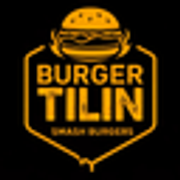
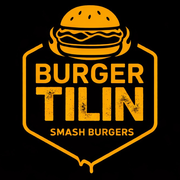
Mejorar la marca y cabecera móvil del admin

Changed region(s): [[0.1111, 0.0278, 0.8889, 0.9722]]

diff --git a/apps/web/components/admin.tsx b/apps/web/components/admin.tsx
@@ -75,7 +75,7 @@ function Login({ done }: { done: (u: any) => void }) {
   return (
     <div className="login-screen">
       <div className="login-art">
-        <Brand />
+        <Brand admin />
         <div>
           <span className="eyebrow">EL EQUIPO DETRÁS DE LA PLANCHA</span>
           <h1>
@@ -334,9 +334,9 @@ export default function Admin() {
   const shown = orders.filter((o) => filter === 'ALL' || o.status === filter);
   return (
     <div className={'admin-shell ' + (mobile ? 'nav-open' : '')}>
-      <aside className="sidebar">
+      <aside className="sidebar" id="admin-sidebar">
         <Link href="/admin">
-          <Brand />
+          <Brand admin />
         </Link>
         <span className="workspace-label">TU LOCAL, EN ORDEN</span>
         <nav>
@@ -395,32 +395,44 @@ export default function Admin() {
       <div className="admin-body">
         <header className="admin-topbar">
           <button
+            type="button"
             className="mobile-menu icon-btn"
-            onClick={() => setMobile(!mobile)}
-            aria-label="Menú"
+            onClick={() => setMobile((open) => !open)}
+            aria-label={mobile ? 'Cerrar menú' : 'Abrir menú'}
+            aria-expanded={mobile}
+            aria-controls="admin-sidebar"
           >
-            <Menu />
+            {mobile ? <X /> : <Menu />}
           </button>
+          <Link href="/admin" className="admin-mobile-brand">
+            <Brand admin />
+          </Link>
           <div className="breadcrumb">
-            MI LOCAL <span>/</span> <b>{navigation.find((n) => n.id === view)?.label}</b>
+            <span className="breadcrumb-home">MI LOCAL</span>
+            <span className="breadcrumb-divider">/</span>
+            <b>{navigation.find((n) => n.id === view)?.label}</b>
           </div>
-          <div className="row">
-            <button type="button" className="icon-btn" title="App y avisos de pedidos" aria-label="App y avisos de pedidos" onClick={() => setAppSettings(true)}>
-              <Bell size={20} />
-            </button>
-            <span className={'connection ' + (connected ? 'online' : 'offline')}>
-              {connected ? <Wifi size={14} /> : <WifiOff size={14} />}
-              {connected ? 'En vivo' : 'Reconectando…'}
-            </span>
-            <span className="top-date">
-              {new Intl.DateTimeFormat('es-AR', {
-                weekday: 'long',
-                day: 'numeric',
-                month: 'long',
-                timeZone: 'America/Argentina/Buenos_Aires',
-              }).format(tick)}
-            </span>
-          </div>
+          <button
+            type="button"
+            className="admin-alerts icon-btn"
+            title="App y avisos de pedidos"
+            aria-label="App y avisos de pedidos"
+            onClick={() => setAppSettings(true)}
+          >
+            <Bell size={20} />
+          </button>
+          <span className={'connection ' + (connected ? 'online' : 'offline')}>
+            {connected ? <Wifi size={14} /> : <WifiOff size={14} />}
+            {connected ? 'En vivo' : 'Reconectando…'}
+          </span>
+          <span className="top-date">
+            {new Intl.DateTimeFormat('es-AR', {
+              weekday: 'long',
+              day: 'numeric',
+              month: 'long',
+              timeZone: 'America/Argentina/Buenos_Aires',
+            }).format(tick)}
+          </span>
         </header>
         {appSettings && (
           <AdminMobile close={() => setAppSettings(false)} install={installPrompt ? async () => {
@@ -438,7 +450,7 @@ export default function Admin() {
           )}
           {['orders', 'kitchen'].includes(view) ? (
             <>
-              <div className="page-heading">
+              <div className="page-heading orders-heading">
                 <div>
                   <span className="eyebrow orange">A LA PLANCHA</span>
                   <h1>

diff --git a/apps/web/app/globals.css b/apps/web/app/globals.css
@@ -924,8 +924,8 @@ td span small {
   font-size: 23px;
 }
 .sidebar .brand-icon {
-  width: 37px;
-  height: 41px;
+  width: 48px;
+  height: 48px;
 }
 .workspace-label {
   font-size: 8px;
@@ -950,6 +950,17 @@ td span small {
   max-width: none;
   object-fit: cover;
   flex-shrink: 0;
+}
+.admin-brand .brand-icon {
+  width: 54px;
+  height: 54px;
+  flex-shrink: 0;
+  border-radius: 10px;
+}
+.admin-brand .brand-logo {
+  width: 100%;
+  height: 100%;
+  object-fit: contain;
 }
 .sidebar nav button {
   display: flex;
@@ -1051,6 +1062,13 @@ td span small {
   background: #fff;
   border-bottom: 1px solid var(--line);
   gap: 15px;
+}
+.admin-mobile-brand {
+  display: none;
+}
+.admin-topbar .admin-alerts {
+  margin-left: auto;
+  flex-shrink: 0;
 }
 .breadcrumb {
   font-size: 9px;
@@ -2404,7 +2422,8 @@ td span small {
   }
   .sidebar {
     transform: translateX(-100%);
-    width: 235px;
+    width: min(270px, calc(100% - 48px));
+    overflow-y: auto;
     transition: transform 0.2s;
   }
   .nav-open .sidebar {
@@ -2422,20 +2441,54 @@ td span small {
     display: flex;
   }
   .admin-topbar {
-    height: 60px;
-    padding: 0 16px;
-    gap: 7px;
+    display: grid;
+    grid-template-columns: 44px minmax(0, 1fr) auto 44px;
+    height: auto;
+    padding: max(8px, env(safe-area-inset-top)) 12px 10px;
+    column-gap: 8px;
+    row-gap: 6px;
+  }
+  .admin-topbar .icon-btn {
+    min-width: 44px;
+    min-height: 44px;
+  }
+  .admin-mobile-brand {
+    display: flex;
+    grid-area: 1 / 2 / 2 / 4;
+    justify-self: start;
+    min-width: 0;
+  }
+  .admin-mobile-brand .brand {
+    gap: 8px;
+    font-size: 11px;
+  }
+  .admin-mobile-brand .brand strong {
+    font-size: 20px;
+  }
+  .admin-mobile-brand .brand-icon {
+    width: 40px;
+    height: 40px;
   }
   .breadcrumb {
-    margin-right: auto;
-    font-size: 8px;
-    gap: 7px;
+    grid-area: 2 / 1 / 3 / 3;
+    min-width: 0;
+    padding-left: 4px;
+  }
+  .breadcrumb-home,
+  .breadcrumb-divider {
+    display: none;
   }
   .breadcrumb b {
-    font-size: 10px;
+    font-size: 12px;
+  }
+  .admin-topbar .admin-alerts {
+    grid-area: 1 / 4;
+    margin-left: 0;
   }
   .connection {
-    font-size: 9px;
+    grid-area: 2 / 3 / 3 / 5;
+    justify-self: end;
+    font-size: 10px;
   }
   .admin-content {
     padding: 23px 16px;
@@ -2455,6 +2508,10 @@ td span small {
   .page-heading > .secondary {
     min-height: 41px;
     font-size: 10px;
+  }
+  .orders-heading {
+    flex-wrap: wrap;
+    gap: 12px;
   }
   .order-grid {
     grid-template-columns: 1fr;
@@ -2585,12 +2642,13 @@ td span small {
     grid-template-columns: 1fr;
   }
   .login-art {
-    min-height: 250px;
-    padding: 27px;
+    min-height: 0;
+    gap: 18px;
+    padding: max(24px, env(safe-area-inset-top)) 24px 24px;
   }
   .login-art h1 {
-    font-size: 52px;
-    margin: 22px 0 10px;
+    font-size: clamp(37px, 10vw, 50px);
+    margin: 0 0 8px;
   }
   .login-art .eyebrow,
   .login-art small {

diff --git a/apps/web/components/ui.tsx b/apps/web/components/ui.tsx
@@ -2,11 +2,15 @@
 import { X, LoaderCircle, Flame } from 'lucide-react';
 import { useEffect, useId, useImperativeHandle, useRef, useState, type Ref } from 'react';
 import { createPortal } from 'react-dom';
-export function Brand() {
+export function Brand({ admin = false }: { admin?: boolean }) {
   return (
-    <span className="brand">
+    <span className={admin ? 'brand admin-brand' : 'brand'}>
       <span className="brand-icon">
-        <img className="brand-logo" src="/assets/Logos%20y%20Banners/Logo%202.jpeg" alt="" />
+        <img
+          className="brand-logo"
+          src={admin ? '/admin-icons/brand-mark.webp' : '/assets/Logos%20y%20Banners/Logo%202.jpeg'}
+          alt=""
+        />
       </span>
       <span>
         BURGER{' '}

diff --git a/apps/web/app/admin/page.tsx b/apps/web/app/admin/page.tsx
@@ -5,7 +5,10 @@ export const metadata: Metadata = {
   title: 'Burger Tilín Admin',
   manifest: '/admin/manifest.webmanifest',
   appleWebApp: { capable: true, title: 'Tilín Admin', statusBarStyle: 'default' },
-  icons: { apple: '/admin-icons/apple.png' },
+  icons: {
+    icon: { url: '/admin-icons/favicon.png', type: 'image/png', sizes: '64x64' },
+    apple: '/admin-icons/apple.png',
+  },
 };
 
 export default function Page() {
